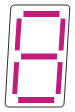
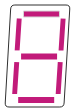
Updates

Changed region(s): [[0.2933, 0.0804, 0.8, 0.1607]]

diff --git a/assets/shapes/index.js b/assets/shapes/index.js
@@ -75,7 +75,7 @@ var draw2d_circuit_display_7Segment = draw2d.SetFigure.extend({
         
         // seg_a
         shape = this.canvas.paper.path('M18.483499999999367 6L54.48349999999937 6L54.48349999999937 12L18.483499999999367 12Z');
-        shape.attr({"stroke":"none","stroke-width":0,"fill":"#C21B7A","opacity":1});
+        shape.attr({"stroke":"#D6D6D6","stroke-width":1,"fill":"#C21B7A","opacity":1});
         shape.data("name","seg_a");
         
         // seg_b
@@ -181,12 +181,12 @@ draw2d_circuit_display_7Segment = draw2d_circuit_display_7Segment.extend({
     {
         var _this = this;
         this.portLockup.forEach(function(element, index){
-            _this.layerShow(element.s, element.p.getValue());
+            _this.layerAttr(element.s, { bgColor:element.p.getValue()?"#ff0000":null});
         });
     }
 
 });
-draw2d_circuit_display_7Segment.logic="calculate: function () {\n    var _this = this;\n    this.portLockup.forEach(function (element, index) {\n        _this.layerShow(element.s, element.p.getValue());\n    });\n}";
+draw2d_circuit_display_7Segment.logic="calculate: function () {\n    var _this = this;\n    this.portLockup.forEach(function (element, index) {\n        _this.layerAttr(element.s, { bgColor: element.p.getValue() ? \'#ff0000\' : null });\n    });\n}";
 draw2d_circuit_display_7Segment.github="./shapes/org/draw2d/circuit/display/7Segment.shape";
 // Generated Code for the Draw2D touch HTML5 lib
 //                                                        

diff --git a/assets/shapes/draw2d_circuit_display_7Segment.js b/assets/shapes/draw2d_circuit_display_7Segment.js
@@ -75,7 +75,7 @@ var draw2d_circuit_display_7Segment = draw2d.SetFigure.extend({
         
         // seg_a
         shape = this.canvas.paper.path('M18.483499999999367 6L54.48349999999937 6L54.48349999999937 12L18.483499999999367 12Z');
-        shape.attr({"stroke":"none","stroke-width":0,"fill":"#C21B7A","opacity":1});
+        shape.attr({"stroke":"#D6D6D6","stroke-width":1,"fill":"#C21B7A","opacity":1});
         shape.data("name","seg_a");
         
         // seg_b
@@ -181,10 +181,10 @@ draw2d_circuit_display_7Segment = draw2d_circuit_display_7Segment.extend({
     {
         var _this = this;
         this.portLockup.forEach(function(element, index){
-            _this.layerShow(element.s, element.p.getValue());
+            _this.layerAttr(element.s, { bgColor:element.p.getValue()?"#ff0000":null});
         });
     }
 
 });
-draw2d_circuit_display_7Segment.logic="calculate: function () {\n    var _this = this;\n    this.portLockup.forEach(function (element, index) {\n        _this.layerShow(element.s, element.p.getValue());\n    });\n}";
+draw2d_circuit_display_7Segment.logic="calculate: function () {\n    var _this = this;\n    this.portLockup.forEach(function (element, index) {\n        _this.layerAttr(element.s, { bgColor: element.p.getValue() ? \'#ff0000\' : null });\n    });\n}";
 draw2d_circuit_display_7Segment.github="./shapes/org/draw2d/circuit/display/7Segment.shape";
